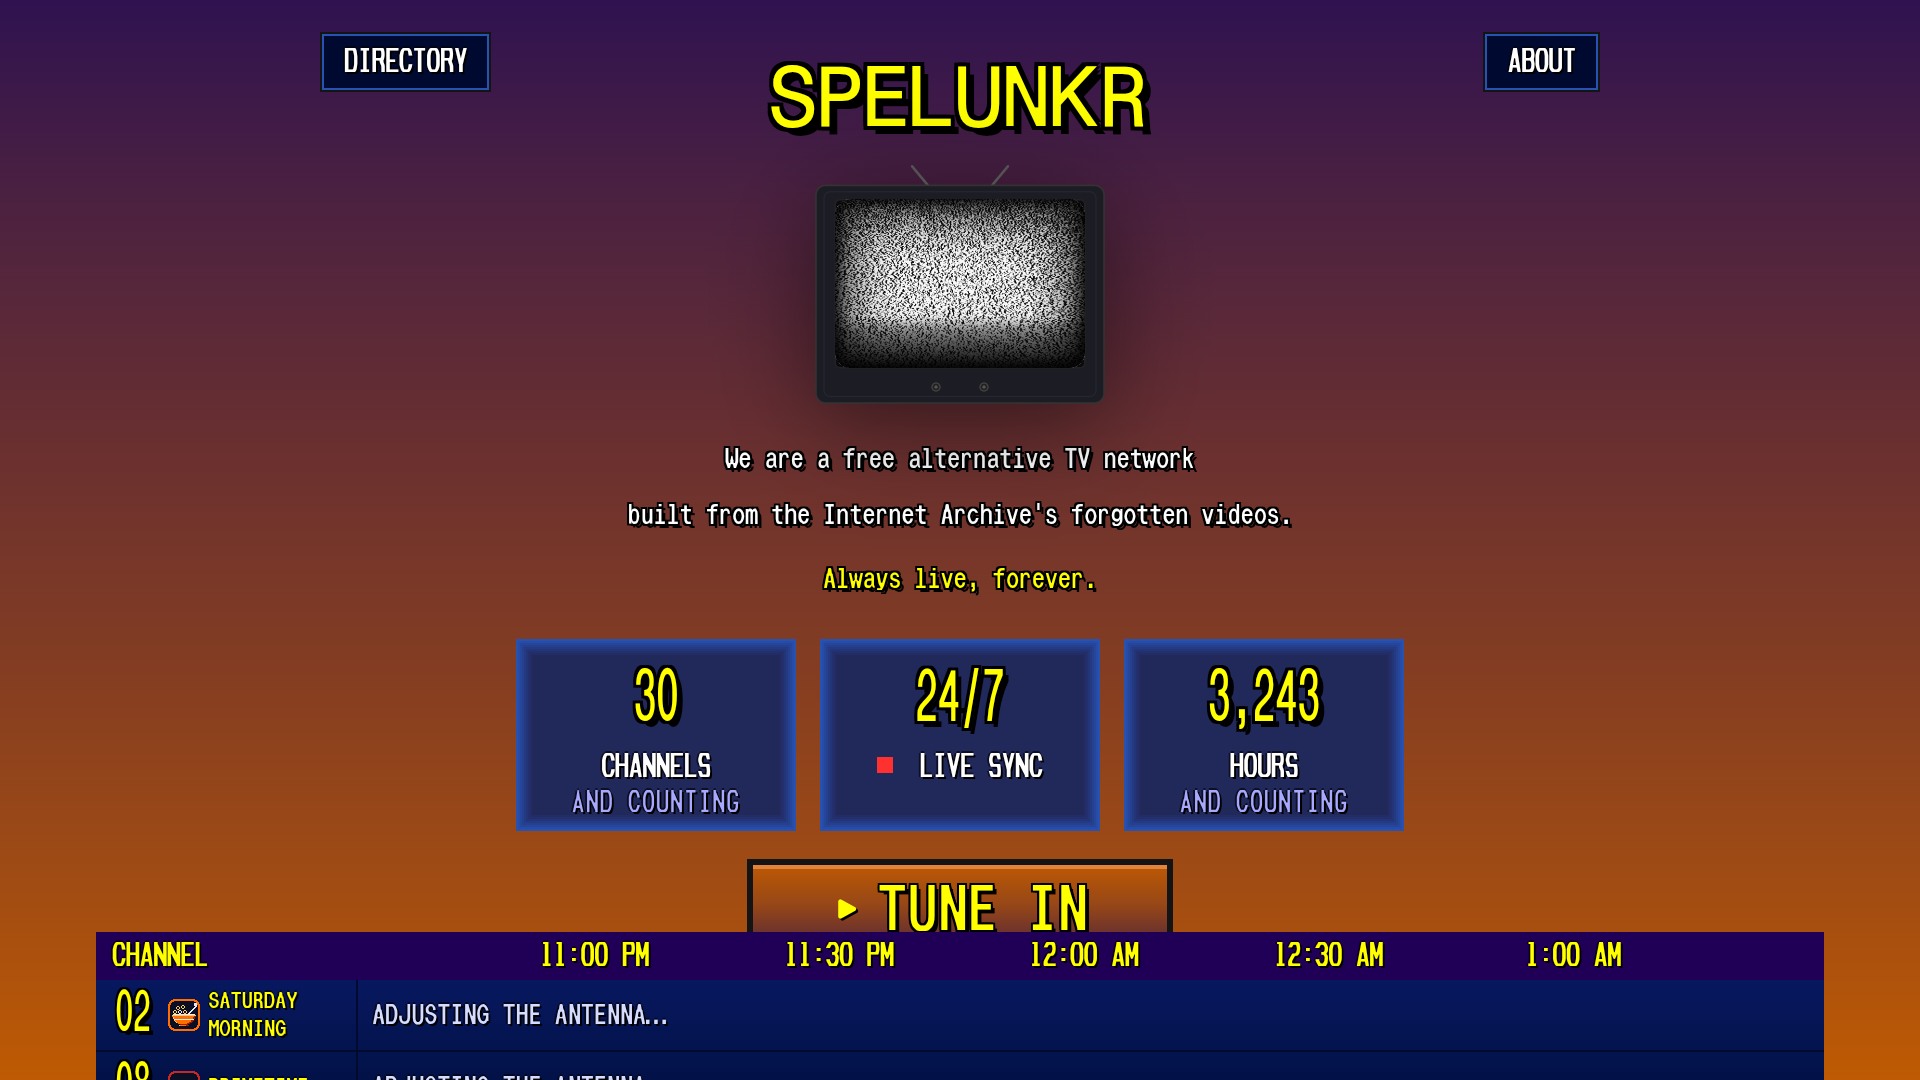
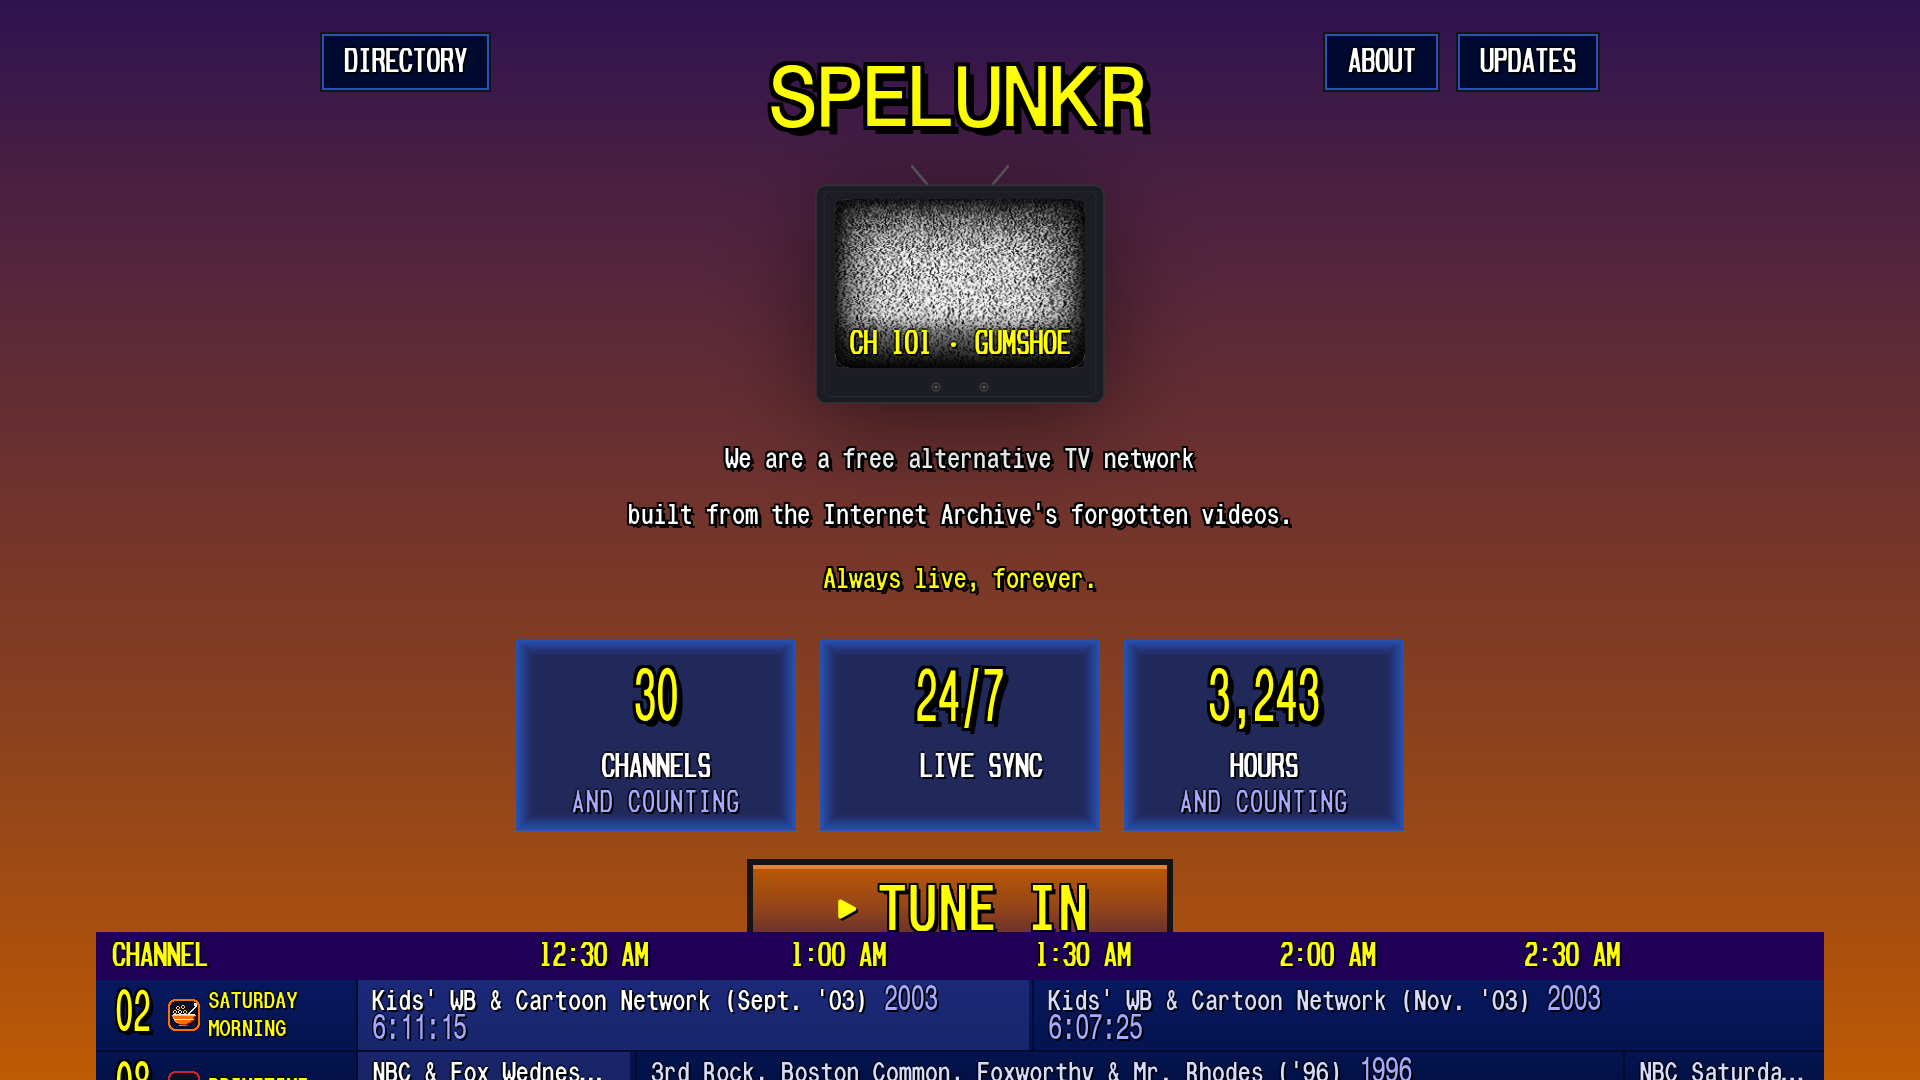
TV: Stay / Main Menu / Exit when backing out of the guide
Back from the TV guide shows the site's "Leave Spelunkr?" card; the app
now adds MAIN MENU (the TUNE IN page, via the site's history screen
state) between STAY and LEAVE, and relabels LEAVE as EXIT. Refreshed the
TV screenshots in the README, adding one of a tape playing full screen.

diff --git a/app/src/main/java/tv/spelunkr/app/MainActivity.kt b/app/src/main/java/tv/spelunkr/app/MainActivity.kt
@@ -765,6 +765,30 @@ class MainActivity : ComponentActivity() {
                     mark(null);
                 }
             }, true);
+
+            // Back from the guide asks "Leave Spelunkr?" with STAY / LEAVE; on TV it also offers the
+            // main menu (the TUNE IN page), and LEAVE says what it does: EXIT.
+            function addMainMenu(card) {
+                var stay = card.querySelector('.leave-card-stay'), leave = card.querySelector('.leave-card-leave');
+                if (!stay || !leave || card.querySelector('.spk-main-menu')) return;
+                var menu = document.createElement('button');
+                menu.type = 'button';
+                menu.className = leave.className.replace('leave-card-leave', '') + ' spk-main-menu';
+                menu.textContent = 'MAIN MENU';
+                menu.addEventListener('click', function (e) {
+                    e.stopPropagation();
+                    stay.click();
+                    // The site keeps its screen in history.state; "home" is the TUNE IN page.
+                    history.pushState({ screen: 'home' }, '', '/' + location.search);
+                    window.dispatchEvent(new PopStateEvent('popstate', { state: history.state }));
+                });
+                leave.parentNode.insertBefore(menu, leave);
+                leave.textContent = 'EXIT';
+            }
+            new MutationObserver(function () {
+                var card = document.querySelector('.leave-card');
+                if (card) addMainMenu(card);
+            }).observe(document.documentElement, { childList: true, subtree: true });
         })();"""
 
         private const val PAUSE_JS = """(function () {

diff --git a/README.md b/README.md
@@ -39,13 +39,9 @@ This repo is the **totally tubular Android app** for it. One APK, two vibes:
 | **📼 Friday Night Videos, summer of '83** | **📡 One moment please… tuning** |
 | ![TV guide playing Friday Night Videos](docs/screenshots/tv-guide-friday-night-videos.png) | ![Tuning slate with VHS tracking lines](docs/screenshots/tv-tuning.png) |
 
-<div align="center">
-
-**🚪 "Leave Spelunkr?" — STAY. Obviously.**
-
-<img src="docs/screenshots/tv-leave.png" alt="Leave Spelunkr dialog on TV" width="70%">
-
-</div>
+| **💾 Now playing: Commodore 64 Training Tape, 1982** | **🚪 Back from the guide: STAY, MAIN MENU, or EXIT** |
+|:---:|:---:|
+| ![Commodore 64 training tape playing full screen on TV](docs/screenshots/tv-watch.png) | ![Leave Spelunkr box with Stay, Main Menu and Exit](docs/screenshots/tv-leave.png) |
 
 ### 📱 In your pocket
 
@@ -60,7 +56,7 @@ This repo is the **totally tubular Android app** for it. One APK, two vibes:
 ### 📺 Android TV
 - 🎮 **Remote-first.** D-pad and OK drive the site's own TV navigation. Channel ▲▼, page ▲▼, next/previous and the media keys go straight to the page. Number keys dial channels.
 - 👀 **Look before you leap.** In the guide, ▲▼ move a white highlight without changing what's playing. Press **Select** to tune, **Back** to drop the highlight.
-- 🚪 **Leave means leave.** "Leave Spelunkr?" → LEAVE actually closes the app and takes you home.
+- 🚪 **Your call.** Back from the guide asks "Leave Spelunkr?": **STAY**, **MAIN MENU** (back to the TUNE IN page) or **EXIT** (closes the app). STAY is focused by default, so a stray press won't kick you out.
 - 🧈 **Smooth.** Nothing is drawn behind the page, phone-only overlays are removed on TV, and the web renderer gets priority. On a 2 GB TV dongle, video plays at its full 30 fps with **zero dropped frames**.
 
 ### 📱 Phones
